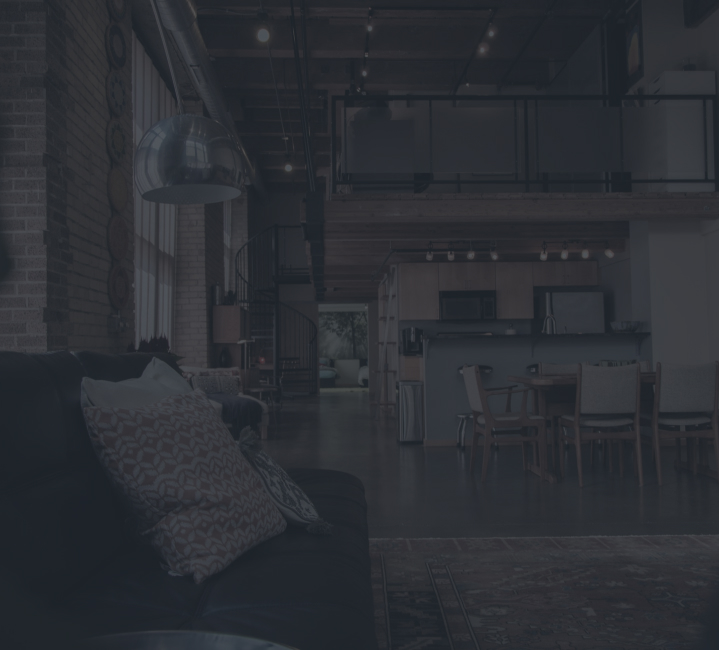
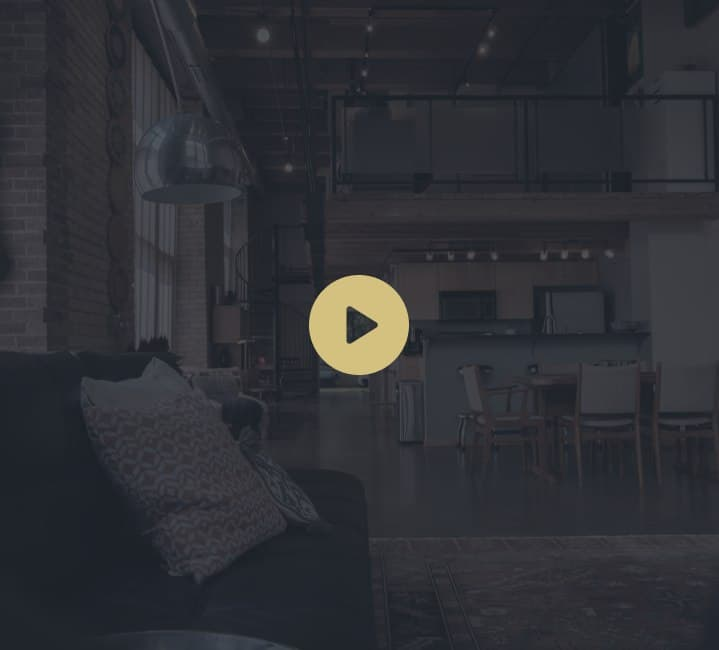
media

Changed region(s): [[0.4284, 0.4, 0.5814, 0.5846]]

diff --git a/figma_proekt/style.css b/figma_proekt/style.css
@@ -36,7 +36,6 @@ body {
         max-width: 1110px;
         width: 100%;
         margin: 0 auto;
-        /* padding: 0 20px; */
        }
 
     a {
@@ -174,7 +173,6 @@ body {
             display: flex;
             max-width: 556px;
             width: 100%;
-            /* height: 250px;   */
             flex-direction: column;
             justify-content: space-between;
             align-items: center;
@@ -236,56 +234,59 @@ body {
 
     .content .appatments {
         width: 100%;
-        display: grid;
-        grid-template: 1fr repeat(2, 320px) / repeat(2, 1fr);
-        gap: 30px;
-        font-size: 24px;
+        
     }
 
-        .appatments .flat_name {
-            grid-area: 1 / 1 / 2 / 3;
-            padding-bottom: 70px;
+        .content .appatments h3 { 
+            padding-bottom: 100px;
         }
 
-        .appatments .flat_first {
-            background: linear-gradient(
-                180deg, 
-                rgba(36, 43, 51, 0) 0%, 
-                #242B33 100%
-                ), 
-            url(image/flat_1.jpg), #D4C17F;
+        .appatments #flats {
+            display: grid;
+            grid-template: repeat(2, 320px) / repeat(2, 1fr);
+            gap: 30px;
+            font-size: 24px;
         }
 
-        .appatments .flat_second {
-            background: linear-gradient(
-                180deg, 
-                #242B33 0%, rgba(36, 43, 51, 0) 0.01%, 
-                #242B33 100%
-                ), 
-            url(image/flat_2.jpg), #D4C17F;
-        }
+            #flats .flat_first {
+                background: linear-gradient(
+                    180deg, 
+                    rgba(36, 43, 51, 0) 0%, 
+                    #242B33 100%
+                    ), 
+                url(image/flat_1.jpg), #D4C17F;
+            }
 
-        .appatments .flat_third {
-            background: linear-gradient(180deg, 
-                rgba(36, 43, 51, 0) 0%, 
-                #242B33 100%
-                ), 
-           url(image/flat_3.jpg), #D4C17F;
-        }
+            #flats .flat_second {
+                background: linear-gradient(
+                    180deg, 
+                    #242B33 0%, rgba(36, 43, 51, 0) 0.01%, 
+                    #242B33 100%
+                    ), 
+                url(image/flat_2.jpg), #D4C17F;
+            }
 
-        .appatments .flat_fourth {
-            background: linear-gradient(180deg, 
-                #242B33 0%, rgba(36, 43, 51, 0) 0.01%, 
-                #242B33 100%
-                ), 
-            url(image/flat_4.jpg), #D4C17F;
-        }
+            #flats .flat_third {
+                background: linear-gradient(180deg, 
+                    rgba(36, 43, 51, 0) 0%, 
+                    #242B33 100%
+                    ), 
+            url(image/flat_3.jpg), #D4C17F;
+            }
 
-        .appatments div:not(:first-child){
-            display: flex;
-            align-items: flex-end;
-            padding: 50px;   
-        }
+            #flats .flat_fourth {
+                background: linear-gradient(180deg, 
+                    #242B33 0%, rgba(36, 43, 51, 0) 0.01%, 
+                    #242B33 100%
+                    ), 
+                url(image/flat_4.jpg), #D4C17F;
+            }
+
+            #flats div{
+                display: flex;
+                align-items: flex-end;
+                padding: 50px;   
+            }
 
 /* стили contact  */
 .contact {
@@ -471,10 +472,29 @@ body {
         height: 2px;
         border: 0;
     }  
-    
 
+
+    
 /* медиа     */
 @media screen and (max-width: 1140px) {
+
+    .content .appatments {
+        padding: 0 20px;
+    }
+
+    .contact .contact_box,
+    .maps_box {
+        padding: 180px 20px; 
+    }
+
+    .contact_box_text h3 {
+        padding-bottom: 20px;
+    }
+
+    .question_box {
+        padding: 0 20px 180px;
+    }
+
     .footer .footer_menu {
         padding-left: 20px;
         column-gap: 70px;
@@ -482,29 +502,49 @@ body {
 }
 
 @media screen and (max-width: 1120px) {
-    .wrapper {
-        padding: 0 20px;
-    }
+    
     .footer .footer_menu {
         column-gap: 20px;
     }
-    .question_box {
-        padding: 180px 20px;
-    }
+    
     .question_box .question_box_form form { 
         grid-template: repeat(2, 1fr) /repeat(2, 1fr) ;
     } 
 }
 
+@media screen and (max-width: 980px) {
+    
+    .contact .contact_box {
+        flex-direction: column;
+    }
+
+    .contact_box_text {
+        text-align: center; 
+    }
+
+    .contact_box_text h3 {
+        padding-bottom: 50px;
+    }
+
+    .contact_box .contact_box_form form {
+        padding-right: 35px;
+    }
+}
+
 @media screen and (max-width: 870px) {
+
     .footer .footer_menu {
-        grid-template: repeat(3, 1fr) / 1.6fr 2.6fr;
+        grid-template: repeat(2, 1fr) / 1.6fr 2.6fr;
         column-gap: 0;
         row-gap: 20px;
     }
 
     .footer_menu .footer_menu_logo {
-        grid-area: 1 / 1 / 4 / 2; 
+        grid-area: 1 / 1 / 3 / 2; 
+    }
+
+    .footer_menu .item_del {
+        display: none;
     }
 }   
 
@@ -530,7 +570,7 @@ body {
 
     .header_menu .header_nav_active {
         transform: translateY(0);
-        /* width: 100%;s */
+        
     }
 
     .header_nav .header_nav_list {
@@ -538,13 +578,70 @@ body {
         font-size: 1.5em;
         font-weight: bold;
         padding-top: 100px;
+    }
+
+    .contact_box .contact_box_form form {
+        padding: 65px 0 0;
+    }
+
+    #char {
+        display: flex;
+        flex-direction: column;
+    }
+
+    .character_data .character_text {
+        text-align: center;
+    }
 
 }
 
+@media screen and (max-width: 670px) {
+    h1 {
+        font-size: 36px; 
+    }
+    .appatments {
+        display: flex;
+        flex-direction: column;
+        align-items: center;
+    }
+    .appatments h3 {
+        text-align: center;
+    }
+    
+    #flats {
+        grid-template-rows: 320px;
+        grid-template-columns: repeat(4, 320px);         
+    }
+}
+
+
+@media screen and (max-width: 600px) {
+    .contact_box .contact_box_form form {
+       grid-template: repeat(4, 1fr) / 1fr;
+       padding: 65px 35px 0;
+    }
+
+    .contact_box .contact_box_form form button {
+        grid-area: 3 / 1 ;
+    }
+
+    .contact_box .contact_box_form form .form_text {
+        grid-area: 4 / 1 ;
+    }
+}
+
 @media screen and (max-width: 575px) {
-        .question_box .question_box_form form { 
+    
+    #char {
+        padding: 120px 100px;
+    }
+
+    .question_box .question_box_form form { 
         grid-template: repeat(2, 1fr) / 1fr;
-    } 
-
-
+    }
+    
+    .maps_box h3,
+    .question_box h3 {
+        text-align: center;
+    }
 }

diff --git a/figma_proekt/index.html b/figma_proekt/index.html
@@ -74,15 +74,17 @@
                     <span class="character_text">6 км велодорожек</span>
                 </div>
             </div>
-            <div id="flats" class="appatments">
-                <div class="flat_name">
-                    <h3>Наши квартиры</h3>
+            <div class="appatments">
+                <h3>Наши квартиры</h3>
+                <div id="flats">
+                    <div class="flat_first">1Лофт — 3 этажа</div>
+                    <div class="flat_second">2Лофт — 2 этажа</div>
+                    <div class="flat_third">3Лофт — 3 этажа</div>
+                    <div class="flat_fourth">4Лофт — 2 этажа</div>
                 </div>
-                <div class="flat_first">Лофт — 3 этажа</div>
-                <div class="flat_second">Лофт — 2 этажа</div>
-                <div class="flat_third">Лофт — 3 этажа</div>
-                <div class="flat_fourth">Лофт — 2 этажа</div>
+
             </div>
+            
         </section>
        
         <section class="contact">
@@ -111,7 +113,6 @@
 
         <section class="video">
             <div class="video_wrapper">
-                <img class="video_button" src="image/play-icon.svg" alt="play">
                 <video src="video/ЖК «Фонтанка, 76», г. Санкт-Петербург.mp4" controls poster="image/video-img.jpg" width=100% height=650px></video>
             </div>
         </section>
@@ -149,7 +150,7 @@
                     <div>ЖИЛОЙ КОМПЛЕКС</div>
                 </div>
                 
-                <nav class="footer_nav">
+                <nav class="footer_nav item_del">
                     <ul class="footer_nav_list">
                         <li><a href="#char">О&nbsp;комплексе</a></li>
                         <li><a href="#district">Район</a></li>
